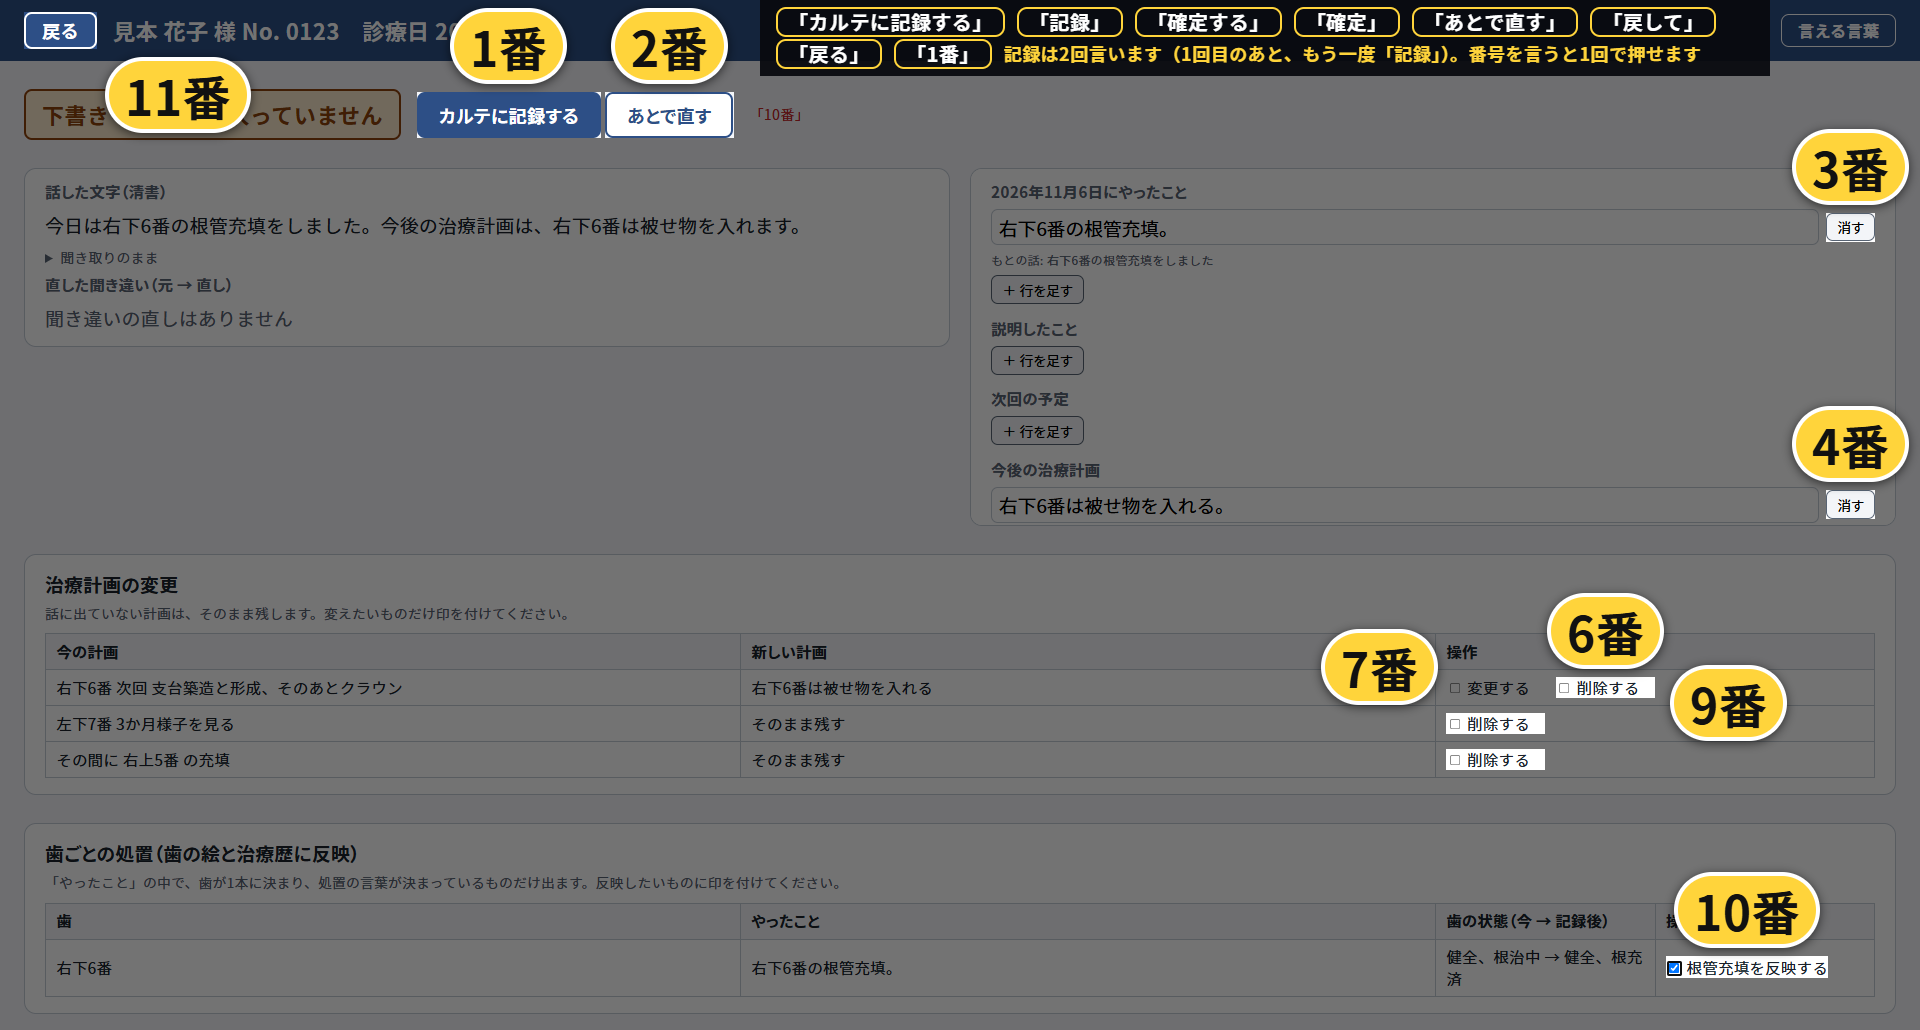
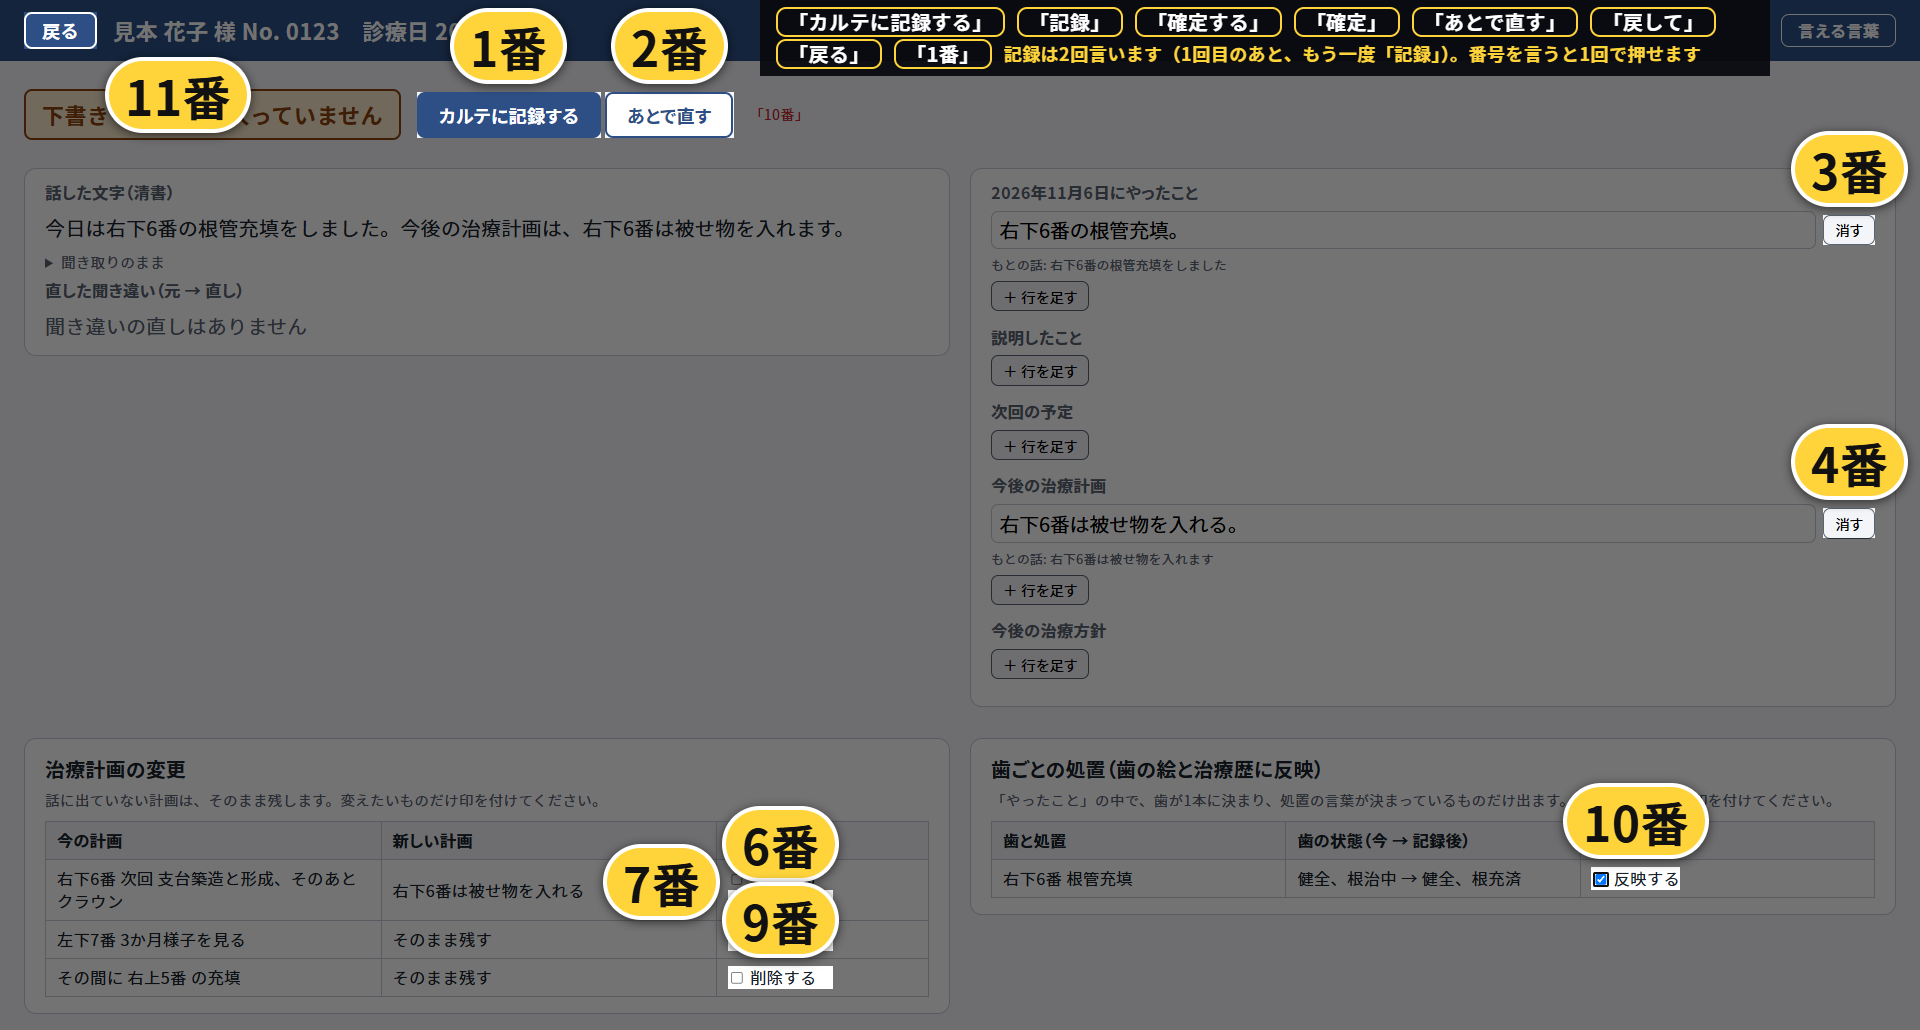
G19l: 治療計画の変更と歯ごとの処置を横に並べ、下書きの画面を1画面に収める

diff --git a/app/static/css/rec.css b/app/static/css/rec.css
@@ -77,6 +77,14 @@ table.rtab .st-転送待ち { color: var(--c-warn); font-weight: var(--fw-bold);
 #plan-compare tr.add td { background: var(--c-canvas); }
 #plan-compare label { display: inline-block; margin-right: var(--sp-3); font-size: var(--fs-3); }
 
+/* G19l: 治療計画の変更と歯ごとの処置は横に並べる（下書きの画面を1画面に収めるため） */
+.plan-row { display: flex; align-items: flex-start; gap: var(--sp-5); margin: 0 var(--sp-6) var(--sp-8); }
+.plan-row .plan-block { flex: 1 1 0; min-width: 0; margin: 0; }
+.plan-row .plan-block[hidden] { display: none; }
+#tooth-compare table.rtab td { font-size: var(--fs-3); }
+#tooth-compare label { display: inline-block; font-size: var(--fs-3); }
+#tooth-compare .plan-table th:nth-child(1), #tooth-compare .plan-table th:nth-child(2) { width: auto; }
+
 .rec-head a.back { font-size: var(--fs-3); font-weight: var(--fw-bold); padding: var(--sp-1) var(--sp-4); border: 2px solid var(--c-surface);
   border-radius: var(--r-s); text-decoration: none; }
 .rec-head .say-btn { margin-left: auto; font: inherit; font-size: var(--fs-2); color: var(--c-surface); background: transparent;
@@ -94,7 +102,8 @@ table.rtab .st-転送待ち { color: var(--c-warn); font-weight: var(--fw-bold);
 body.rec-page[data-page=draft] { display: flex; flex-direction: column; height: 100vh; overflow: hidden; }
 body.rec-page[data-page=draft] .draft-cols { flex: 1; min-height: 0; align-items: stretch; padding-bottom: var(--sp-4); }
 body.rec-page[data-page=draft] .draft-left, body.rec-page[data-page=draft] .draft-right { min-height: 0; overflow-y: auto; align-self: flex-start; max-height: 100%; box-sizing: border-box; }
-body.rec-page[data-page=draft] .plan-block { flex: none; margin-bottom: var(--sp-4); }
+body.rec-page[data-page=draft] .plan-row { flex: none; margin-bottom: var(--sp-4); }
+body.rec-page[data-page=draft] .plan-block { flex: 1 1 0; margin-bottom: 0; }
 body.rec-page[data-page=draft] .draft-left > *, body.rec-page[data-page=draft] .draft-right > *,
 body.rec-page[data-page=draft] .plan-block > * { zoom: var(--fit, 1); }
 

diff --git a/app/static/js/draft.js b/app/static/js/draft.js
@@ -129,8 +129,7 @@
     toothCands.forEach(function (c) {
       var tr = document.createElement("tr");
       tr.dataset.toothKey = c.key;
-      tr.appendChild(cell(c.site));
-      tr.appendChild(cell(c.row));
+      tr.appendChild(cell(c.site + " " + c.word));
       tr.appendChild(cell(c.before + " → " + c.after));
       var td = document.createElement("td");
       var l = document.createElement("label"), box = document.createElement("input");
@@ -140,7 +139,7 @@
       box.disabled = confirmed;
       box.addEventListener("change", function () { toothPicked[c.key] = box.checked; });
       l.appendChild(box);
-      l.appendChild(document.createTextNode(" " + c.word + "を反映する"));
+      l.appendChild(document.createTextNode(" 反映する"));
       td.appendChild(l);
       tr.appendChild(td);
       rows.appendChild(tr);

diff --git a/app/routers/recordings.py b/app/routers/recordings.py
@@ -242,15 +242,15 @@ def _draft_html(d, p, v, rec, fix, back="/"):
         f"<div class='draft-cols'><div class='draft-left' data-part='draft-transcript'><h3>{"話したままの文字（直して整理し直す）" if (fix and not done and not d["combined"]) else "話した文字（清書）"}</h3>{left}"
         f"<h3 class='fx-title'>直した聞き違い（元 → 直し）</h3><div data-part='draft-fixes'>{_fixes_html(d)}</div></div>"
         f"<div class='draft-right' data-part='draft-items'>{cols}</div></div>"
-        "<section class='plan-block' id='plan-compare' data-part='plan-compare'><h2>治療計画の変更</h2>"
+        "<div class='plan-row'><section class='plan-block' id='plan-compare' data-part='plan-compare'><h2>治療計画の変更</h2>"
         "<p class='plan-hint'>話に出ていない計画は、そのまま残します。変えたいものだけ印を付けてください。</p>"
         "<table class='rtab plan-table'><thead><tr><th>今の計画</th><th>新しい計画</th><th>操作</th></tr></thead>"
         "<tbody id='plan-rows'></tbody></table></section>"
         + ("" if done else
-           "<section class='plan-block' id='tooth-compare'><h2>歯ごとの処置（歯の絵と治療歴に反映）</h2>"
+           "<section class='plan-block' id='tooth-compare' hidden><h2>歯ごとの処置（歯の絵と治療歴に反映）</h2>"
            "<p class='plan-hint' id='tooth-hint'>「やったこと」の中で、歯が1本に決まり、処置の言葉が決まっているものだけ出ます。反映したいものに印を付けてください。</p>"
-           "<table class='rtab plan-table'><thead><tr><th>歯</th><th>やったこと</th><th>歯の状態（今 → 記録後）</th><th>操作</th></tr></thead>"
-           "<tbody id='tooth-rows'></tbody></table></section>") +
+           "<table class='rtab plan-table'><thead><tr><th>歯と処置</th><th>歯の状態（今 → 記録後）</th><th>操作</th></tr></thead>"
+           "<tbody id='tooth-rows'></tbody></table></section>") + "</div>"
         "<script src='/static/js/voice_keys.js'></script><script src='/static/js/rec_keys.js'></script>"
         "<script src='/static/js/numrule.js'></script><script src='/static/js/numtags.js'></script><script src='/static/js/draft.js'></script><script src='/static/js/actions/look.js'></script></body></html>"
     )

diff --git a/tests/test_g19l_screen.py b/tests/test_g19l_screen.py
@@ -64,7 +64,7 @@ def test_candidates_are_shown_unchecked_and_voice_picks_and_records(server, brow
     rows = pg.locator("#tooth-rows tr")
     assert rows.count() == 1
     text = rows.first.inner_text()
-    assert "右下6番" in text and "根管充填" in text and "健全、根治中 → 健全、根充済" in text
+    assert "右下6番 根管充填" in text and "健全、根治中 → 健全、根充済" in text
     assert not pg.locator("#tooth-rows input").first.is_checked()          # 初めは「反映しない」
     shoot(pg, "下書き_選ぶ欄.png")
     # ボタン2 → 番号 → 声: 候補の「反映する」にも番号が出る（記録する・あとで直す・各行の消す・計画の削除するの次）
